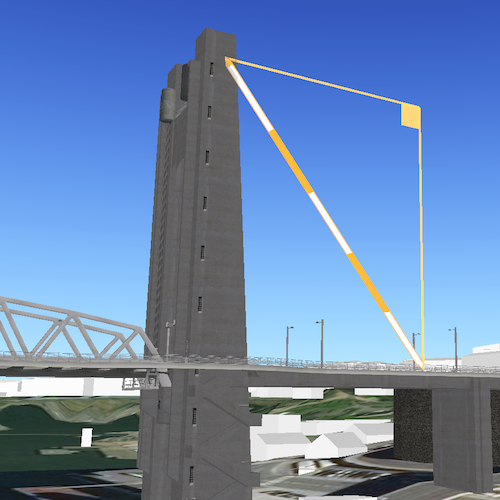
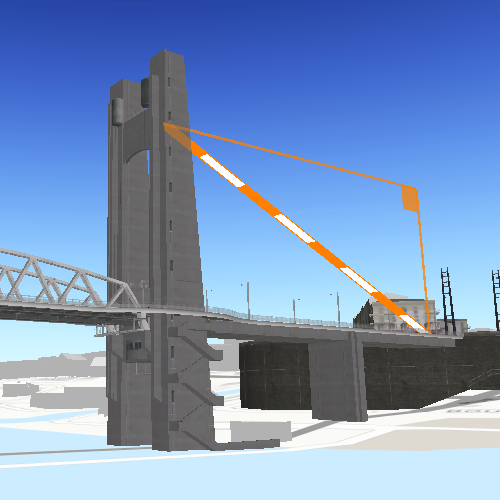
Distance measurement analysis update

diff --git a/ArcGISRuntimeSDKQt_QMLSamples/Analysis/DistanceMeasurementAnalysis/DistanceMeasurementAnalysis.qml b/ArcGISRuntimeSDKQt_QMLSamples/Analysis/DistanceMeasurementAnalysis/DistanceMeasurementAnalysis.qml
@@ -37,9 +37,7 @@ Rectangle {
         Scene {
             id: scene
             // Set the basemap
-            Basemap {
-                initStyle: Enums.BasemapStyleArcGISImageryStandard
-            }
+            BasemapTopographic {}
 
             // Add a Scene Layer
             ArcGISSceneLayer {

diff --git a/ArcGISRuntimeSDKQt_CppSamples/Analysis/DistanceMeasurementAnalysis/DistanceMeasurementAnalysis.cpp b/ArcGISRuntimeSDKQt_CppSamples/Analysis/DistanceMeasurementAnalysis/DistanceMeasurementAnalysis.cpp
@@ -52,7 +52,7 @@ void DistanceMeasurementAnalysis::componentComplete()
   m_sceneView = findChild<SceneQuickView*>("sceneView");
 
   // Create a Scene with the imagery basemap
-  Scene* scene = new Scene(BasemapStyle::ArcGISImageryStandard, this);
+  Scene* scene = new Scene(Basemap::topographic(this), this);
 
   // Add a Scene Layer
   ArcGISSceneLayer* sceneLayer = new ArcGISSceneLayer(QUrl("https://tiles.arcgis.com/tiles/P3ePLMYs2RVChkJx/arcgis/rest/services/Buildings_Brest/SceneServer/layers/0"), this);
